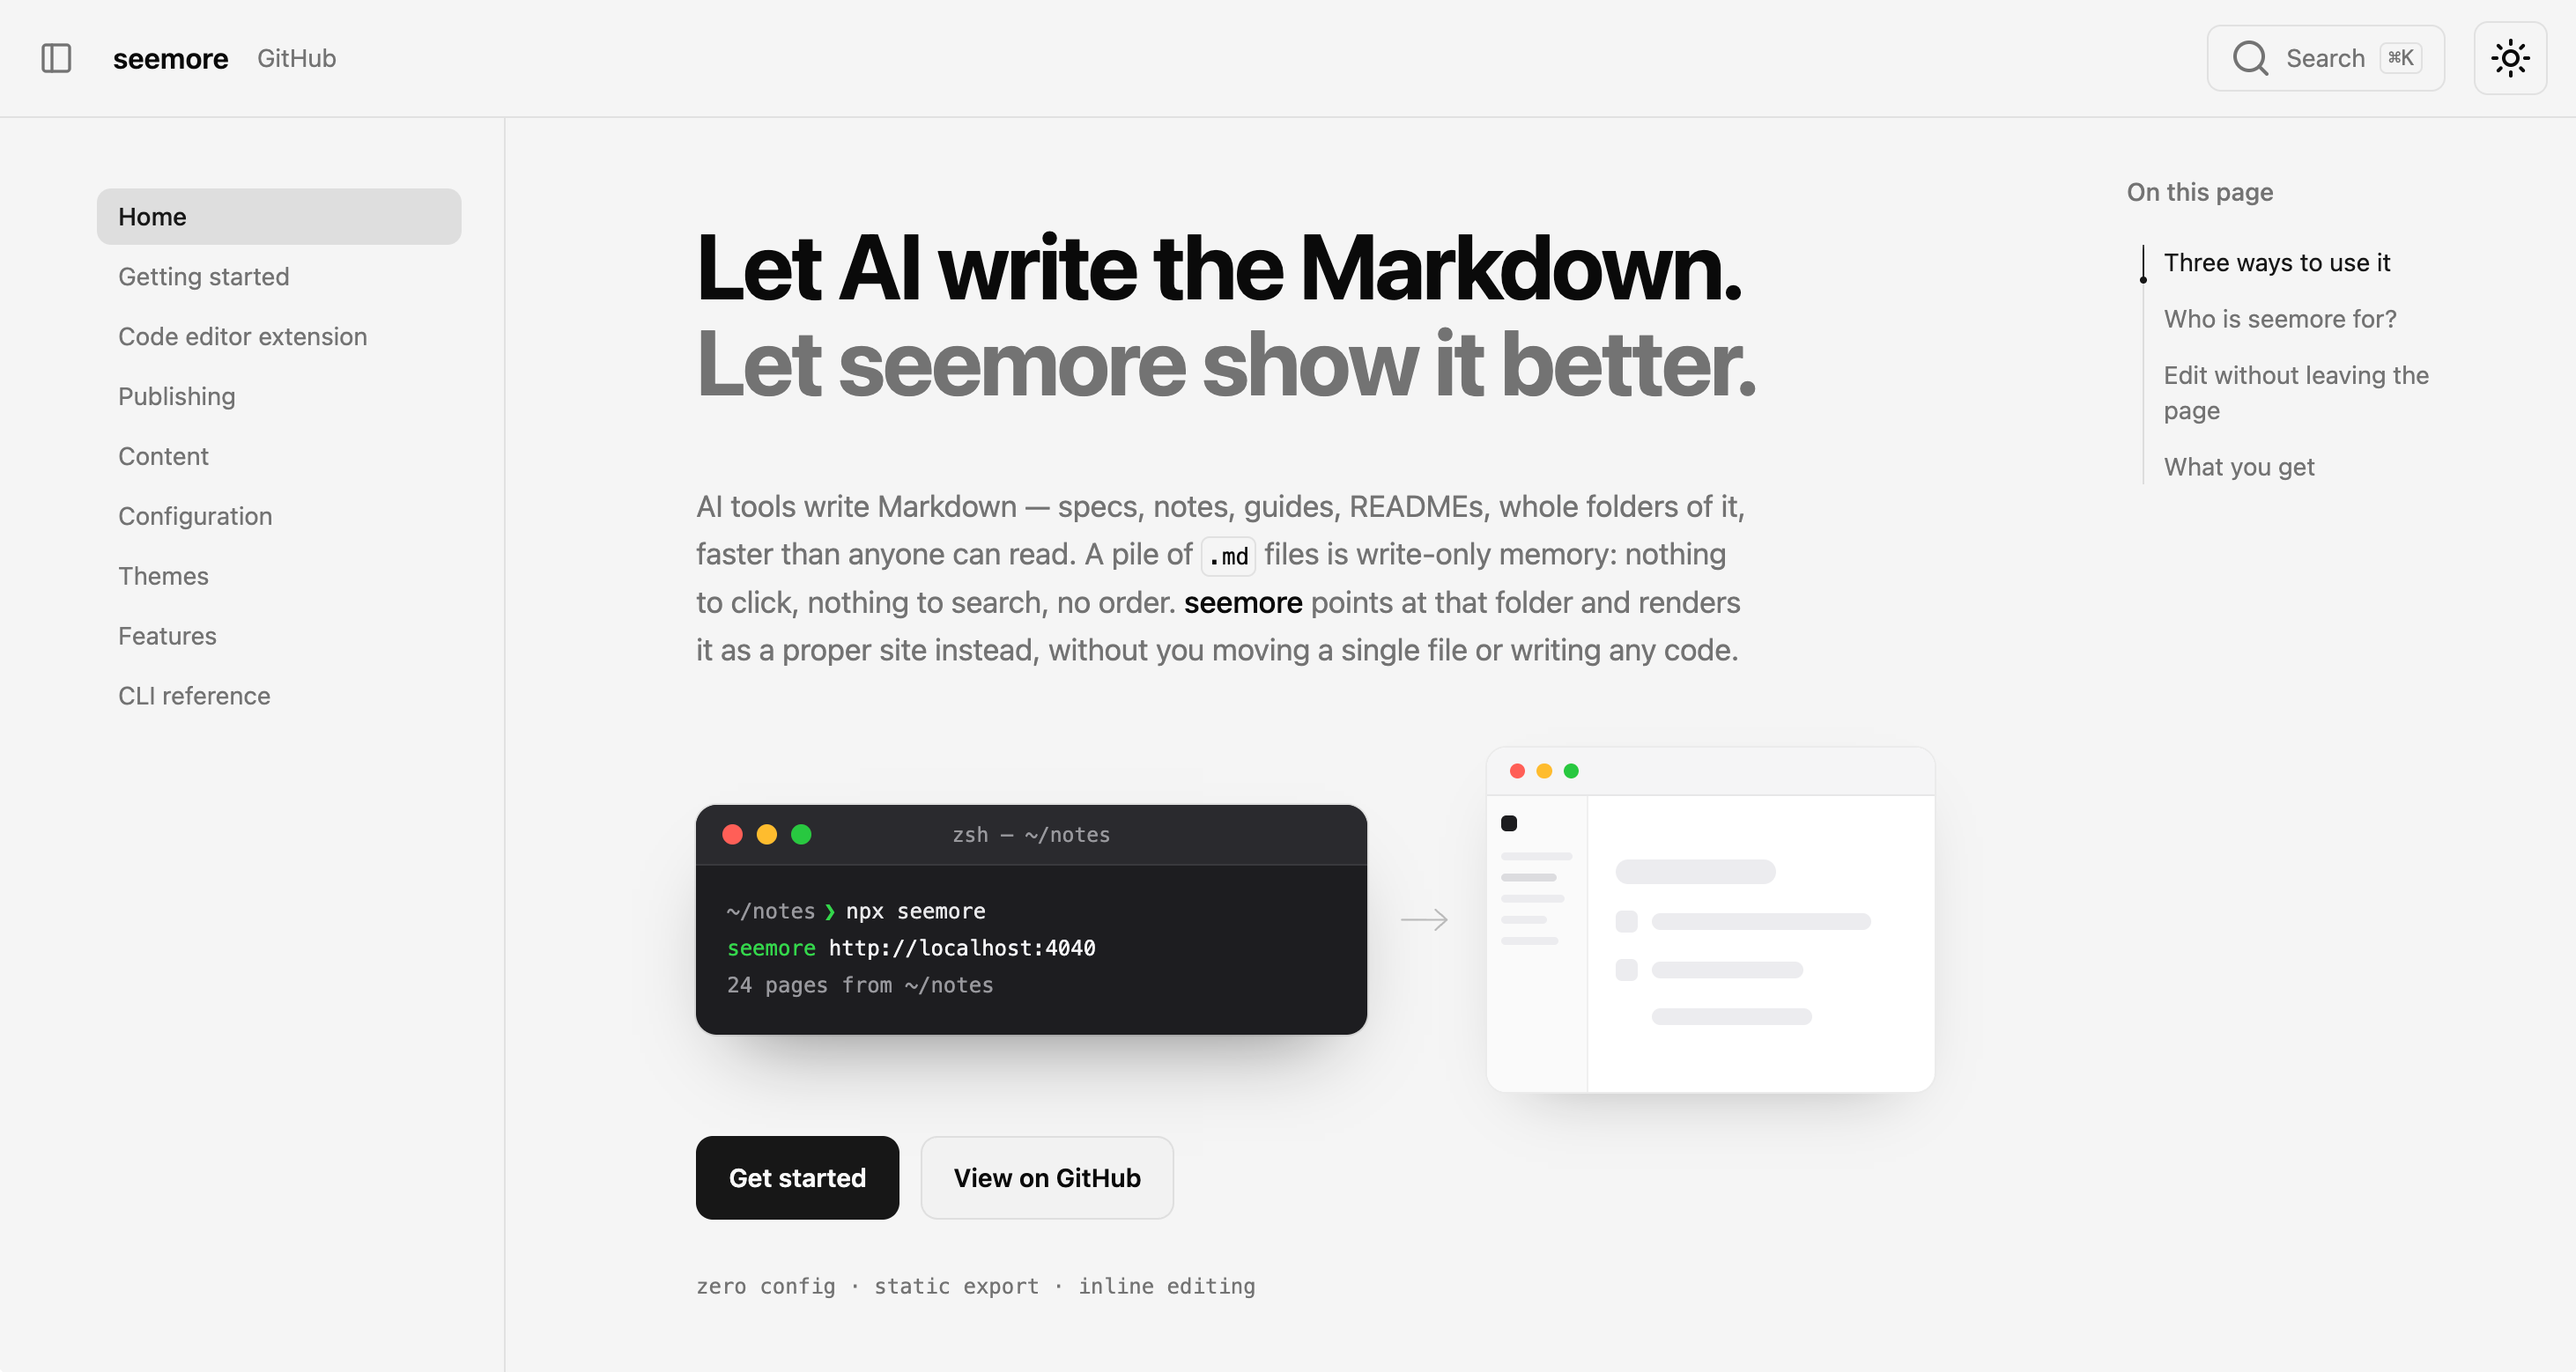
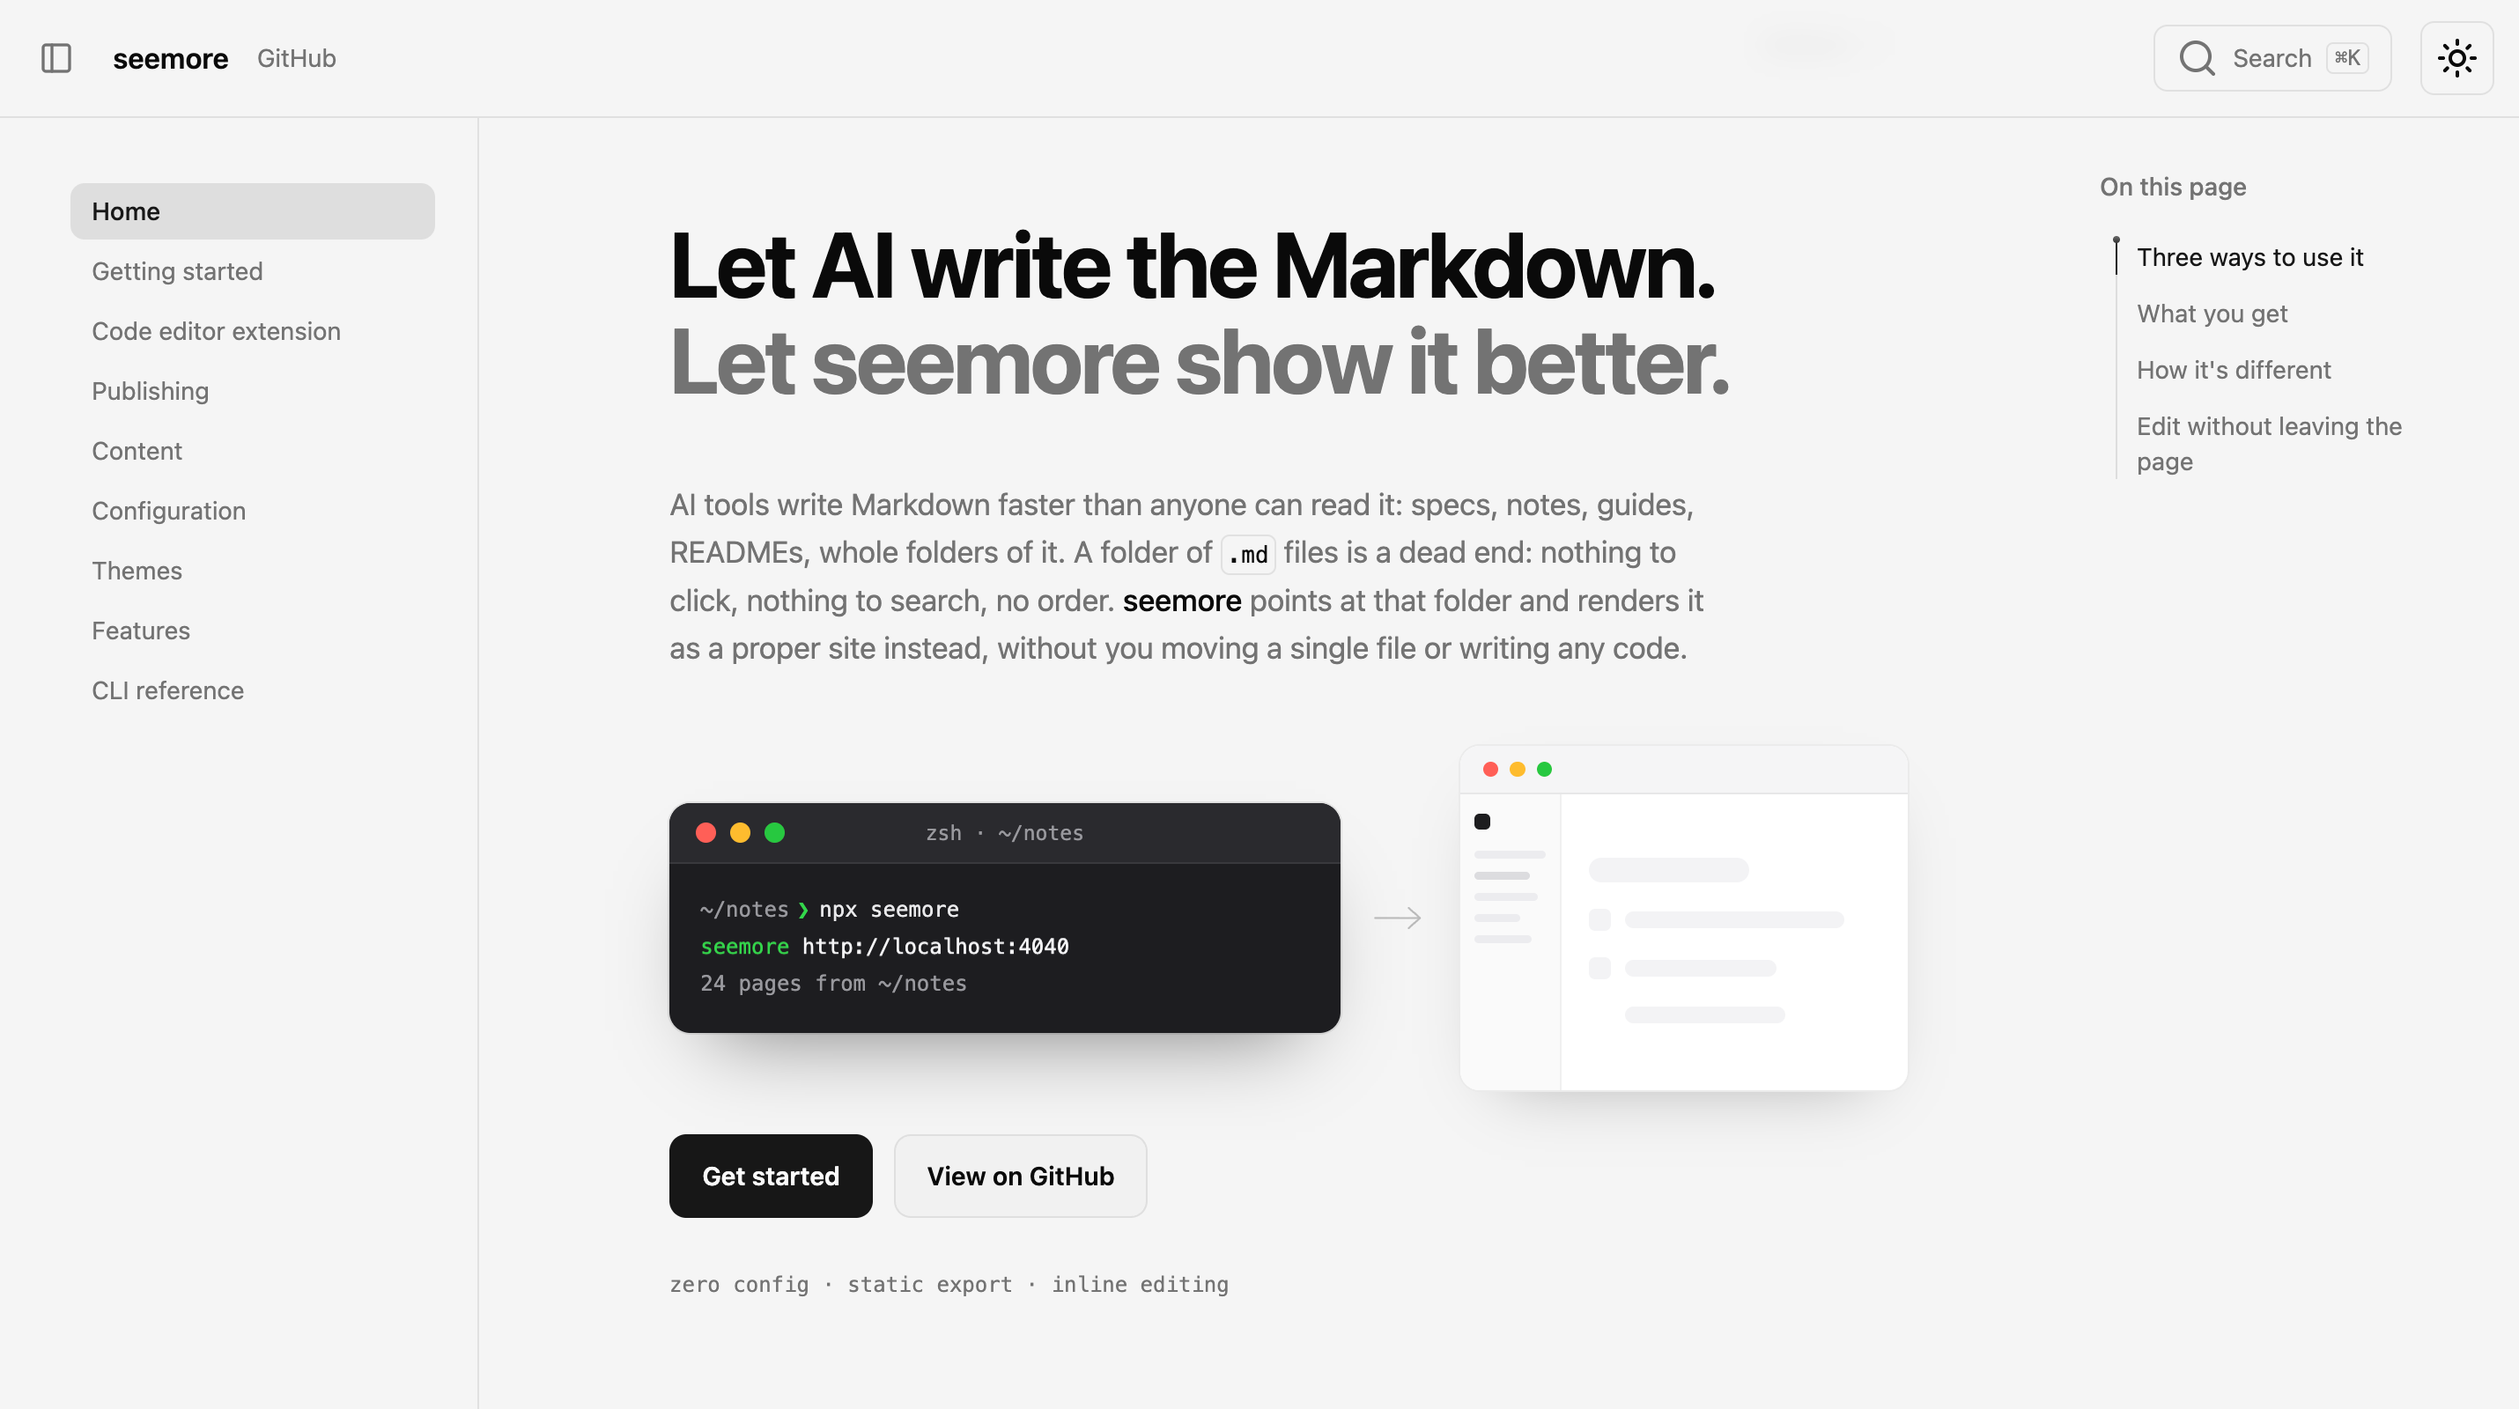
style: refine page actions spacing and mobile responsiveness

diff --git a/packages/seemore/src/app/styles/globals.css b/packages/seemore/src/app/styles/globals.css
@@ -476,9 +476,11 @@
   }
 
   /* Page actions: the row above the article holding the export dropdown. Right-aligned so
-     it reads as chrome, not content, and stays clear of the heading it hangs over. */
+     it reads as chrome, not content, and stays clear of the heading it hangs over. No
+     bottom margin: the main column's own `gap-10` already separates it from the article,
+     and a margin here would stack on top of that gap. */
   .seemore-page-actions {
-    @apply relative mb-4 flex justify-end;
+    @apply relative flex justify-end;
   }
 
   .seemore-page-actions-trigger {
@@ -492,6 +494,19 @@
 
   .seemore-page-actions-trigger svg {
     @apply size-4;
+  }
+
+  /* Mobile: the row's trigger padding reads as wasted space on a phone, and the column's
+     `gap-10` is generous for a viewport this small — tighten both below the `md`
+     breakpoint, where the TOC rail is hidden and this row is pure chrome. */
+  @media (max-width: 767.98px) {
+    .seemore-page-actions-trigger {
+      @apply px-2.5 py-1;
+    }
+
+    .seemore-main {
+      @apply gap-6;
+    }
   }
 
   /* `top-full` is load-bearing: without it the menu keeps its static position, which in this
